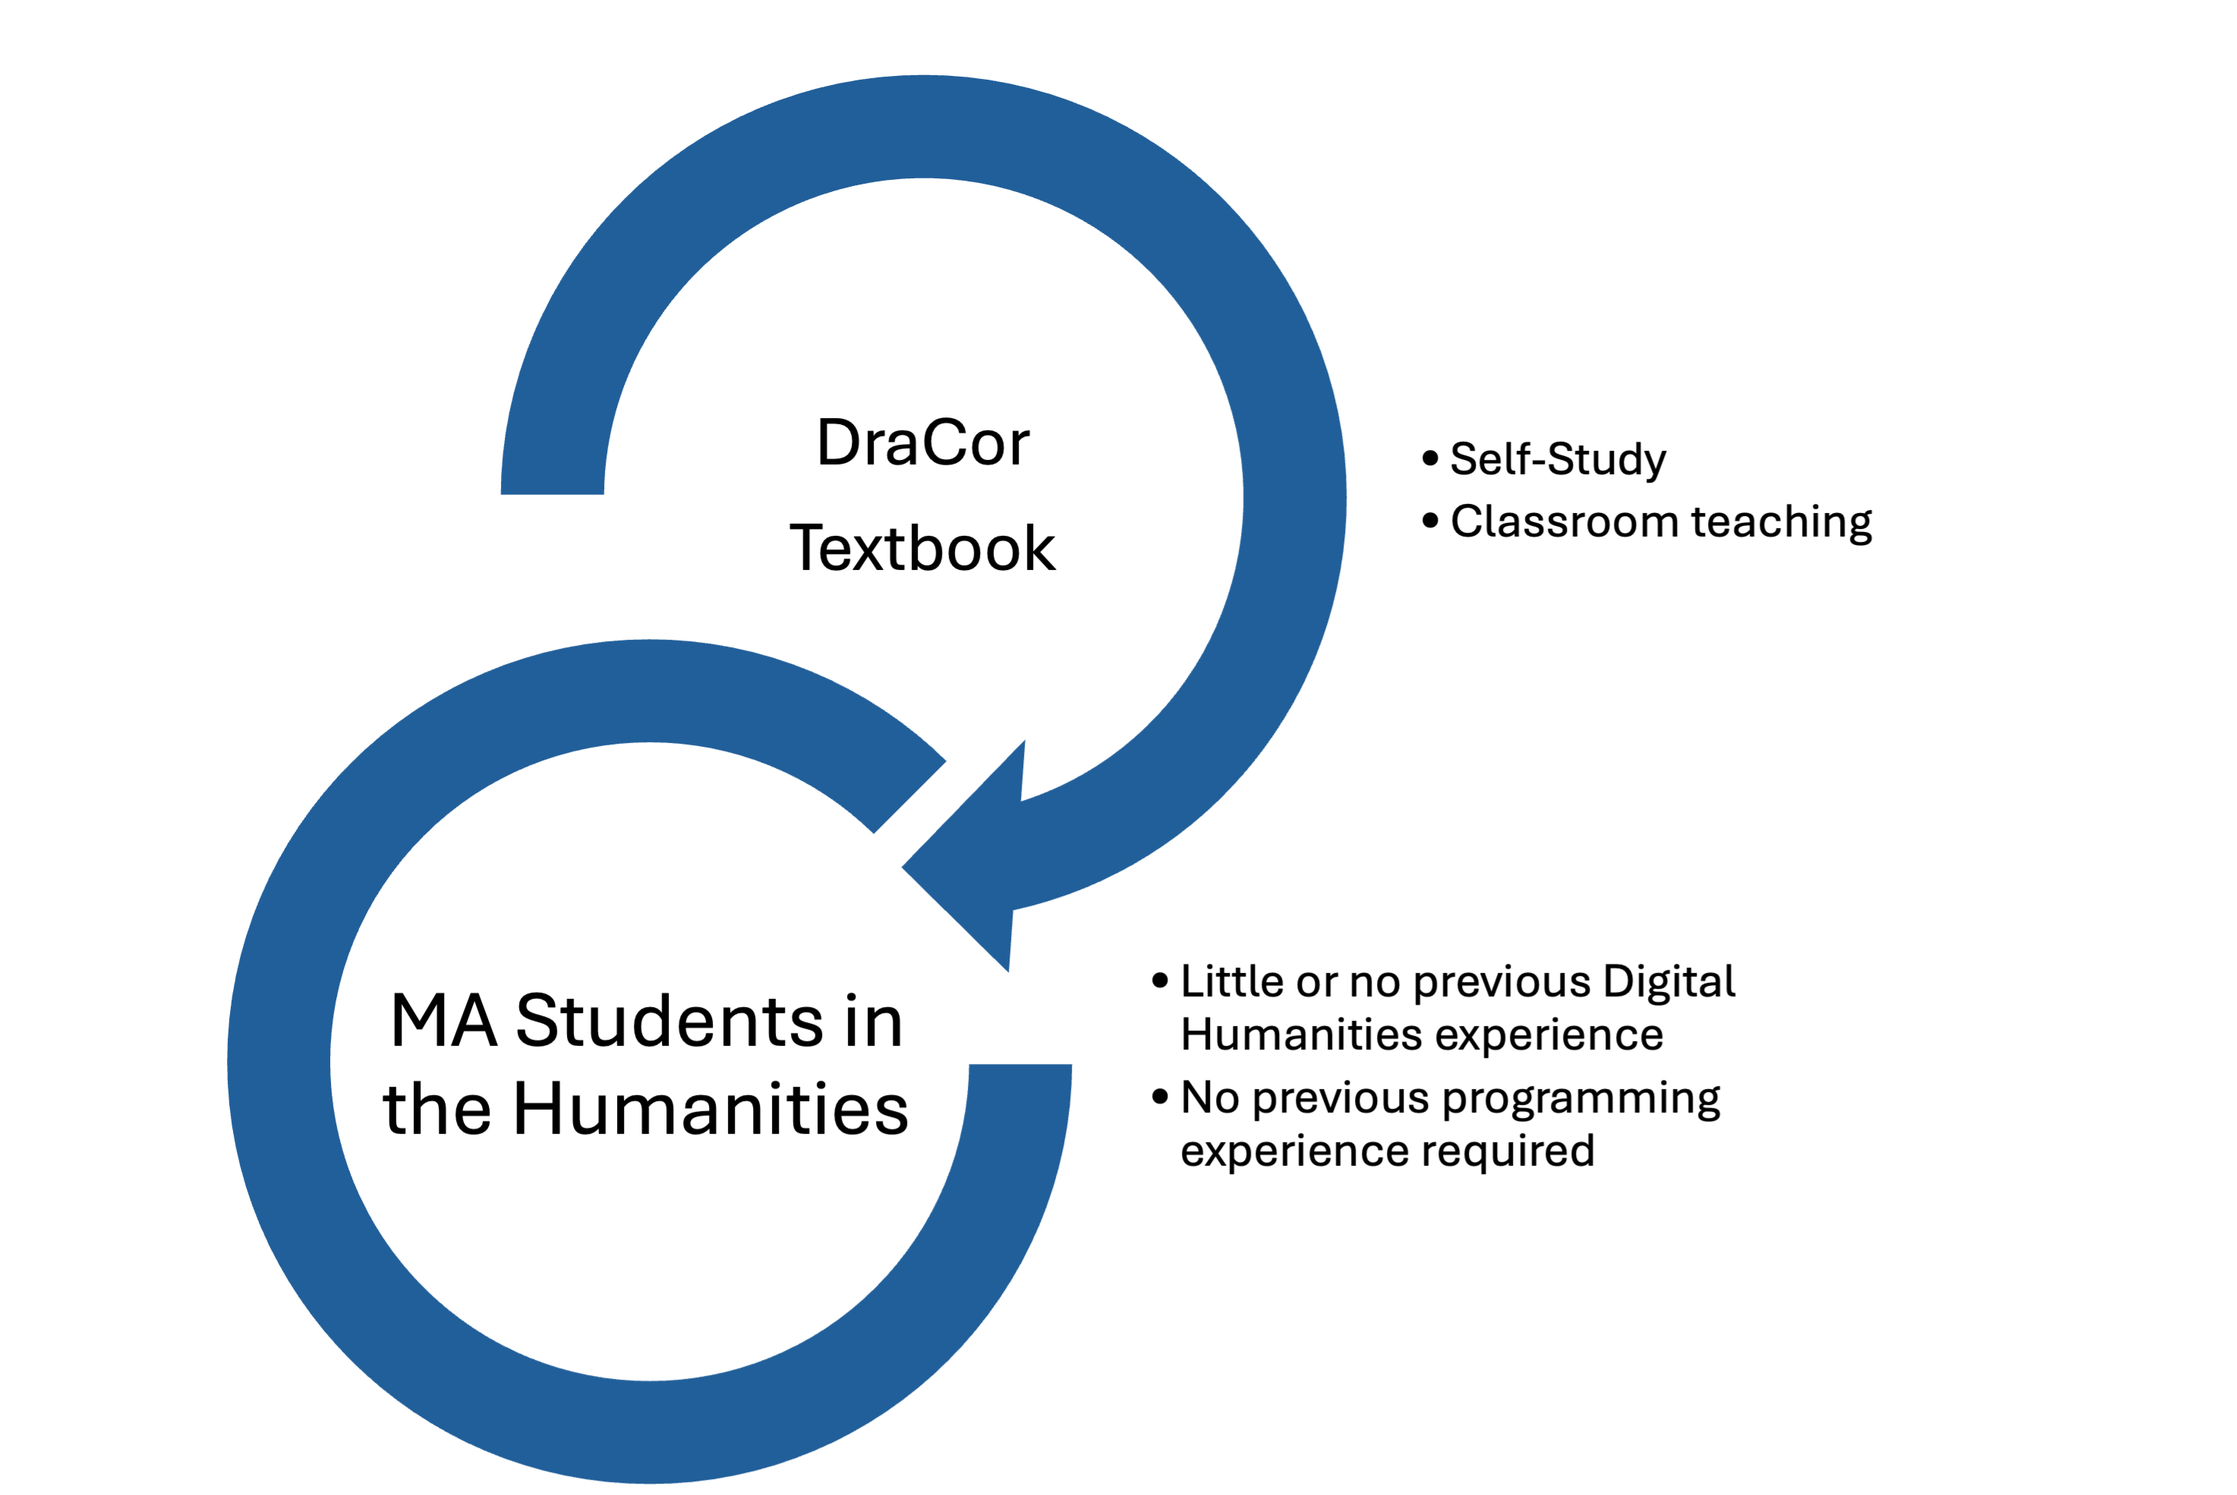
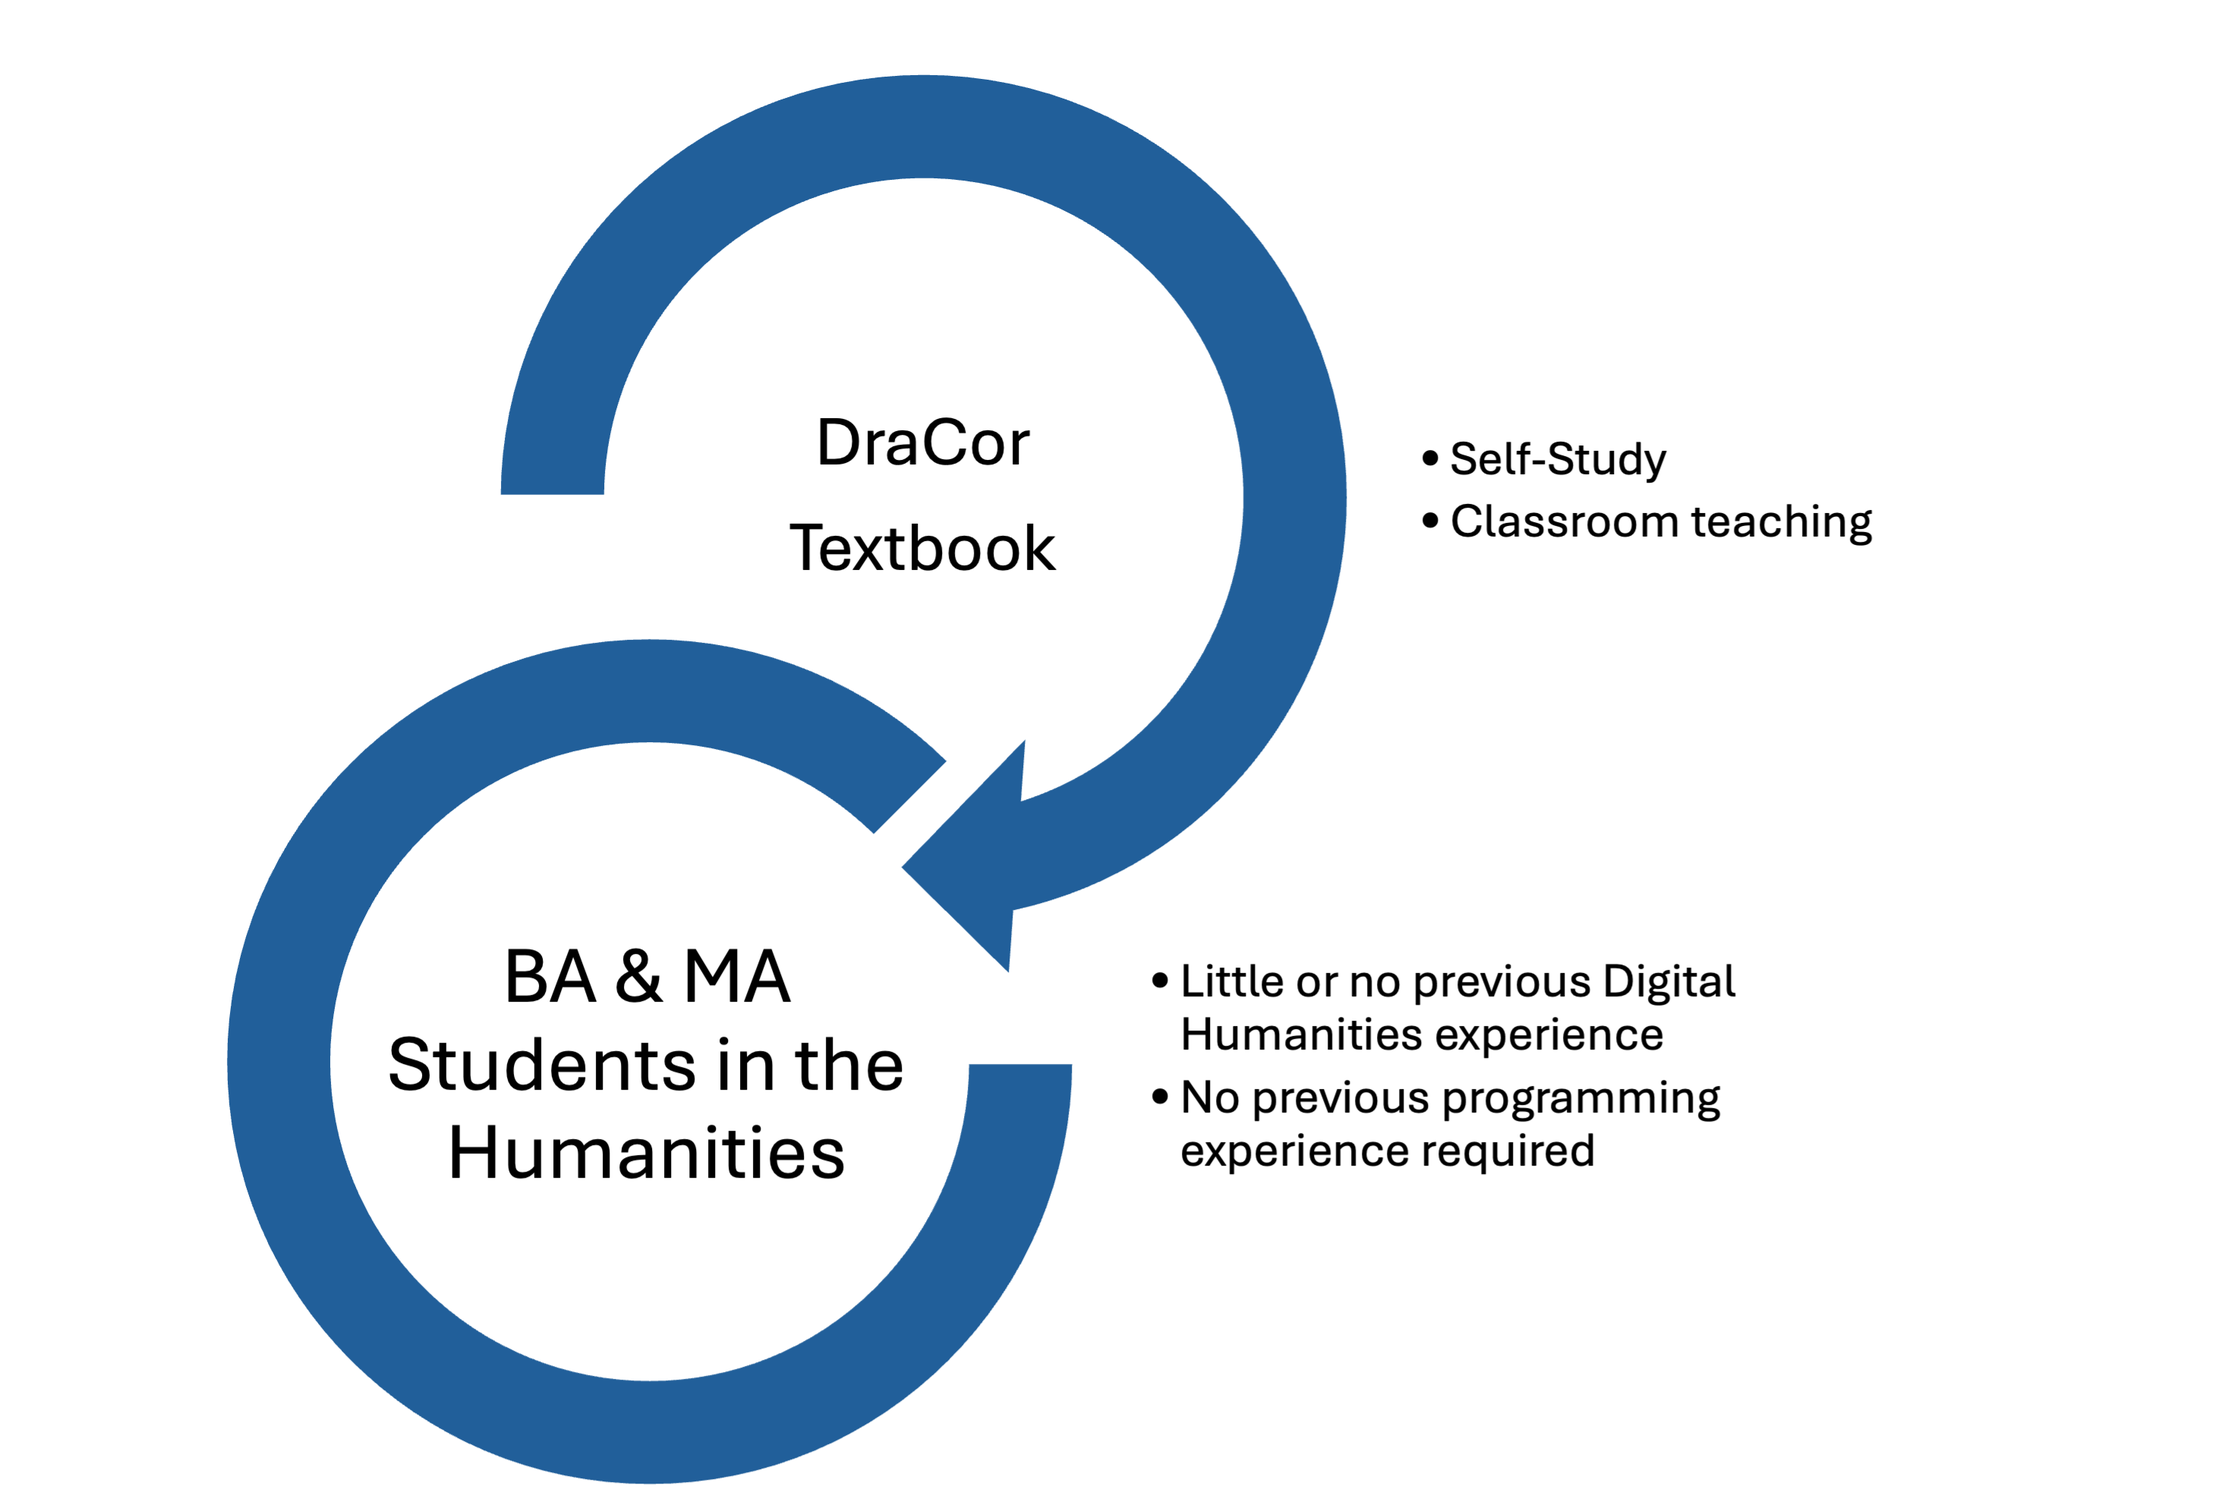
update text, figure and references
add AI use declaration, clarify audience, add link to notebook, and other minor changes including rephrasing and improving wording, and adding numbered headings

Changed region(s): [[0.1561, 0.6193, 0.4058, 0.8051]]

diff --git a/docs/chapters/01-preface-programmable-corpora-in-action.md b/docs/chapters/01-preface-programmable-corpora-in-action.md
@@ -4,11 +4,10 @@ myst:
   substitutions:
    chap_title: "Preface"
 authors: "Antonio Rojas Castro"
-date: "2026-09-15"
-description: "This preface introduces the DraCor Textbook as an Open Educational Resource (OER), explains the concept of programmable corpora, outlines its target audiences and learning scenarios, and presents the main ways in which the textbook can be used for self-study and instructor-guided teaching."
-keywords: ["DraCor Textbook", "programmable corpora", "Open Educational Resource", "active learning", "self-study", "Digital Humanities"]
+date: "2026-11-26"
+description: "This preface introduces the DraCor Textbook as an Open Educational Resource (OER), explains the concept of Programmable Corpora, outlines its target audiences and learning scenarios and presents the main ways in which the Textbook can be used for self-study and lecturer-guided teaching."
+keywords: ["DraCor Textbook", "Programmable Corpora", "Open Educational Resource", "active learning", "self-study", "Digital Humanities"]
 license: "CC BY 4.0"
-license link: "https://creativecommons.org/licenses/by/4.0/"
 ---
 
 # Preface: Programmable Corpora in Action
@@ -16,34 +15,37 @@ license link: "https://creativecommons.org/licenses/by/4.0/"
 ```{admonition} Chapter metadata
 :class: tip
 **Author:** Antonio Rojas Castro  
-**Version:** 0.6 (2026-11-24)  
-**Review status:** in progress  
-**Planned reviewers:** Frank Fischer; Julia Jennifer Beine
+**Version:** 0.7 (2026-11-26)  
+**Review status:** reviewed  
+**Reviewers:** Frank Fischer; Julia Jennifer Beine; Ingo Börner
 ```
 
-The **DraCor Textbook** is a curated, pedagogically structured Open Educational Resource (OER) developed by the DraCor Textbook editorial team. It provides a comprehensive introduction to working with programmable drama corpora in DraCor. Unlike the community-driven DraCor Notebooks, the textbook follows an explicit learning sequence and combines conceptual explanations with practical tasks, exercises and guidance for teaching.
+## 1. About This Textbook
 
-## 1. DraCor and Programmable Corpora
+The **DraCor Textbook** is an Open Educational Resource (OER) developed as part of the DraCorOS project. It introduces [DraCor](https://dracor.org/), an open infrastructure for digital drama analysis, and shows how we can work with its Programmable Corpora {cite:p}`fischer2019programmable`. The chapters follow a learning sequence that combines conceptual explanations with practical tasks, exercises and guidance for teaching.[^notebooks]
 
-DraCor is a research infrastructure for the collection, curation and computational analysis of drama corpora. A *programmable corpus* is not only a collection of digital texts. It also provides documented interfaces through which texts, metadata and derived data can be retrieved and processed. In DraCor, openly available TEI/XML corpora are connected to an application programming interface (API) and a web front-end. This combination enhances both direct exploration and reproducible computational research {cite:p}`borner2023cls,borner2025cls`.
+## 2. DraCor and Programmable Corpora
 
-This preface introduces the purpose and scope of the textbook. The subsequent chapters explain the individual components and workflows in greater detail, from corpus building and TEI encoding to the front-end, API-based access and local infrastructure.
+A Programmable Corpus combines a collection of digital texts with documented interfaces through which texts, metadata and derived data can be retrieved and processed. In DraCor, openly available TEI/XML corpora are connected to an **A**pplication **P**rogramming **I**nterface (API) and a web front-end. This combination supports both direct exploration and reproducible computational research {cite:p}`borner2023cls,borner2025cls`. Both reports are also available in HTML ([D7.1](https://dracor-org.github.io/dracor-tech-reports/clsinfra-d71/), [D7.4](https://dracor-org.github.io/dracor-tech-reports/clsinfra-d74/)).
+
+This preface introduces the purpose and scope of the Textbook. The five chapters that follow explain the individual components and workflows in greater detail, from corpus building and TEI encoding to the front-end, API-based access and local infrastructure.
 
 [Chapter 5, API: Working with DraCor Programmatically](05-api-working-with-dracor-programmatically.md) is an executable Jupyter Notebook. [Appendix A, Running the Textbook as an Interactive Notebook](../appendix/running-the-textbook-as-an-interactive-notebook.md) explains how to open it in your browser and run the code.
 
-## 2. Target Audience
+## 3. Who Is the Textbook For?
+
+The Textbook is intended for advanced BA and MA students, including humanities students with little or no background in Digital Humanities. Researchers and independent learners can use it for self-study. Lecturers and trainers can adapt individual chapters for a seminar or workshop. These audiences are also described in our DHd 2027 abstract, *Das DraCor Textbook: Programmable Corpora Lehren und Lernen* (forthcoming).
 
 ```{figure} ../images/preface/target-audience.png
----
-alt: "Diagram showing the target audience and possible uses of the DraCor Textbook."
-width: 90%
----
-The DraCor Textbook is designed for learners with little or no prior experience in Digital Humanities or programming and can be used for self-study or classroom teaching.
+:alt: Diagram showing the audiences for the DraCor Textbook, including BA and MA students, researchers, independent learners, lecturers and trainers.
+:width: 90%
+
+The DraCor Textbook supports self-study and classroom teaching, including courses for advanced BA and MA students.
 ```
 
-No previous programming experience is required. Chapters introduce technical concepts gradually and state their specific requirements at the beginning. Readers may follow the textbook sequentially or select individual chapters according to their learning or teaching context.
+No previous programming experience is required. Chapters introduce technical concepts gradually and state their specific requirements at the beginning. Readers may follow the Textbook sequentially or select individual chapters according to their learning or teaching context.
 
-## 3. How to Use This Textbook
+## 4. How to Use This Textbook?
 
 The DraCor Textbook supports two main learning scenarios: independent self-study and guided teaching or training. In both cases, it encourages active learning. Learners are not expected only to read about methods and tools. They are also invited to inspect data, navigate interfaces, encode texts, make API requests, compare results and reflect on the assumptions and limitations of each workflow.
 
@@ -57,26 +59,54 @@ The self-tests are intended for formative feedback rather than grading. Answers 
 
 ### Classroom Teaching and Training
 
-Instructors and trainers may use the textbook as the basis for a complete introductory course or select individual chapters and activities for shorter teaching units. The sequence, pace and level of technical detail can be adapted to the participants’ previous experience and the available teaching time.
+Lecturers and trainers may use the Textbook as the basis for an introductory course on building and analysing digital drama corpora with DraCor or select individual chapters and activities for shorter teaching units. The sequence, pace and level of technical detail can be adapted to the participants’ previous experience and the available teaching time.
 
-The Teaching Notes at the end of each chapter suggest possible session formats, timings and group activities. These may include guided demonstrations, individual or paired exercises, comparisons between plays or corpora and collective reflection on modelling choices. The practical examples can first be presented by the instructor and then repeated or adapted by learners. Self-tests may be completed individually during or after a session and used to identify concepts that require further explanation.
+The Teaching Notes at the end of each chapter suggest session formats and group activities. These may include guided demonstrations, individual or paired exercises, comparisons between plays or corpora and collective reflection on modelling choices. The practical examples may first be presented by the lecturer and then repeated or adapted by learners. Self-tests may be completed individually during or after a session and used to identify aspects that require further explanation.
 
-In this scenario, the instructor does not only demonstrate procedures but also supports learners in formulating questions, documenting their decisions and distinguishing between what the data or interface shows and how these observations may be interpreted.
+In this scenario, the lecturer does not only demonstrate procedures but also supports learners in formulating questions, documenting their decisions and distinguishing between what the data or interface shows and how these observations may be interpreted.
 
-## 4. Exemplary Uses
+## 5. What Can We Do with DraCor?
 
 The following examples show what you can do with DraCor as you work through the chapters:
 
-- **building a drama corpus:** assembling, transforming and harmonising dramatic texts and metadata as a reusable, openly maintained corpus;
-- **preparing texts in TEI/XML:** encoding the structure and features of dramatic texts according to the DraCor schema, using manual and semi-automatic workflows;
-- **exploring corpora and plays through the front-end:** navigating corpus overviews and pages of individual plays, interpreting network visualisations and speech-distribution views, contextualising observations in the full-text view and retrieving available data layers;
-- **working with DraCor programmatically:** using the interactive API documentation and Python to retrieve texts, metadata, character information and derived metrics, and to extend analysis from individual plays to complete corpora;
-- **working with DraCor as research infrastructure:** understanding how its components interact and using Docker to run a local instance for custom corpora, controlled data versions and reproducible research.
+- [Chapter 2](02-corpus-building-in-dracor.md) covers **building a drama corpus:** collecting, preparing and adapting dramatic texts for a reusable and openly maintained corpus;
+- [Chapter 3](03-tei-encoding-preparing-texts-for-programmable-corpora.md) covers **preparing texts in TEI/XML:** encoding the structure and features of dramatic texts according to the DraCor schema, using manual and semi-automatic workflows;
+- [Chapter 4](04-front-end-navigating-dracor.md) covers **exploring corpora and plays through the front-end:** navigating corpus overviews and pages of individual plays, interpreting network visualisations and speech-distribution views, contextualising observations in the full-text view and retrieving available data layers;
+- [Chapter 5](05-api-working-with-dracor-programmatically.md) covers **working with DraCor programmatically:** using the interactive API documentation and Python to retrieve texts, metadata, character information and derived metrics, and to extend analysis from individual plays to complete corpora;
+- [Chapter 6](06-dracor-in-the-context-of-research-infrastructures.md) covers **working with DraCor as a research infrastructure:** understanding how its components interact and using Docker to run a local instance for custom corpora, controlled data versions and reproducible research.
 
-Together, these usage scenarios guide learners from the preparation of structured textual data to its exploration, programmatic analysis and reproducible deployment. Each chapter also identifies the modelling choices, data dependencies and technical limitations relevant to its workflow.
+Together, these use cases guide learners from the preparation of structured textual data to its exploration, programmatic analysis and reproducible deployment. Each chapter also identifies the modelling choices, data dependencies and technical limitations relevant to its workflow.
 
-## 5. References
+## 6. The Textbook as a Living Resource
+
+We welcome suggestions for corrections, examples and teaching activities. Readers can [open an issue on GitHub](https://github.com/dracor-org/dracor-textbook/issues/new/choose) or share their experiences of teaching and learning with DraCor through the [DraCor Blog](https://dracor.hypotheses.org/).
+
+## 7. Use of AI in the DraCor Textbook
+
+Each chapter includes an AI Use Declaration. As an editor, Antonio Rojas Castro used ChatGPT (OpenAI) to review wording and organise feedback across the Textbook.
+
+The editorial team used Claude Code (Anthropic, Claude Opus 5.5) for the following tasks.
+
+- configuring Jupyter Book, bibliography formatting, the EPUB edition and its cover, and the workflow for attaching the EPUB to releases
+- building the Textbook, checking links, testing code examples against the DraCor API and checking statements against the DraCor documentation
+- checking bibliography entries, DOIs and software metadata
+- transcribing handwritten review notes and drafting GitHub issues, comments and pull request descriptions, labelled “Drafted with Claude Opus 5.5” or “Generated with Claude Code”
+- preparing citation metadata, the licence file and repository contribution guidelines
+
+A member of the editorial team reviewed and approved each change before merging it. The authors and editors take responsibility for the content.
+
+## 8. Author Contributions
+
+Antonio Rojas Castro: Writing – original draft, Writing – review & editing. Frank Fischer and Julia Jennifer Beine reviewed the Preface. Ingo Börner contributed technical and editorial suggestions.
+
+## 9. AI Use Declaration
+
+The author used ChatGPT (OpenAI) to help revise this Preface and takes responsibility for the final text.
+
+## 10. References
 
 ```{bibliography}
 :filter: docname in docnames
 ```
+## 11. Footnotes
+[^notebooks]: The [DraCor Notebooks](https://dracor-org.github.io/dracor-notebooks/) {cite:p}`borner2026dracornotebooks` are a community-driven collection of Jupyter notebooks exploring further uses of the DraCor API. The notebooks are available in the [GitHub repository](https://github.com/dracor-org/dracor-notebooks).
